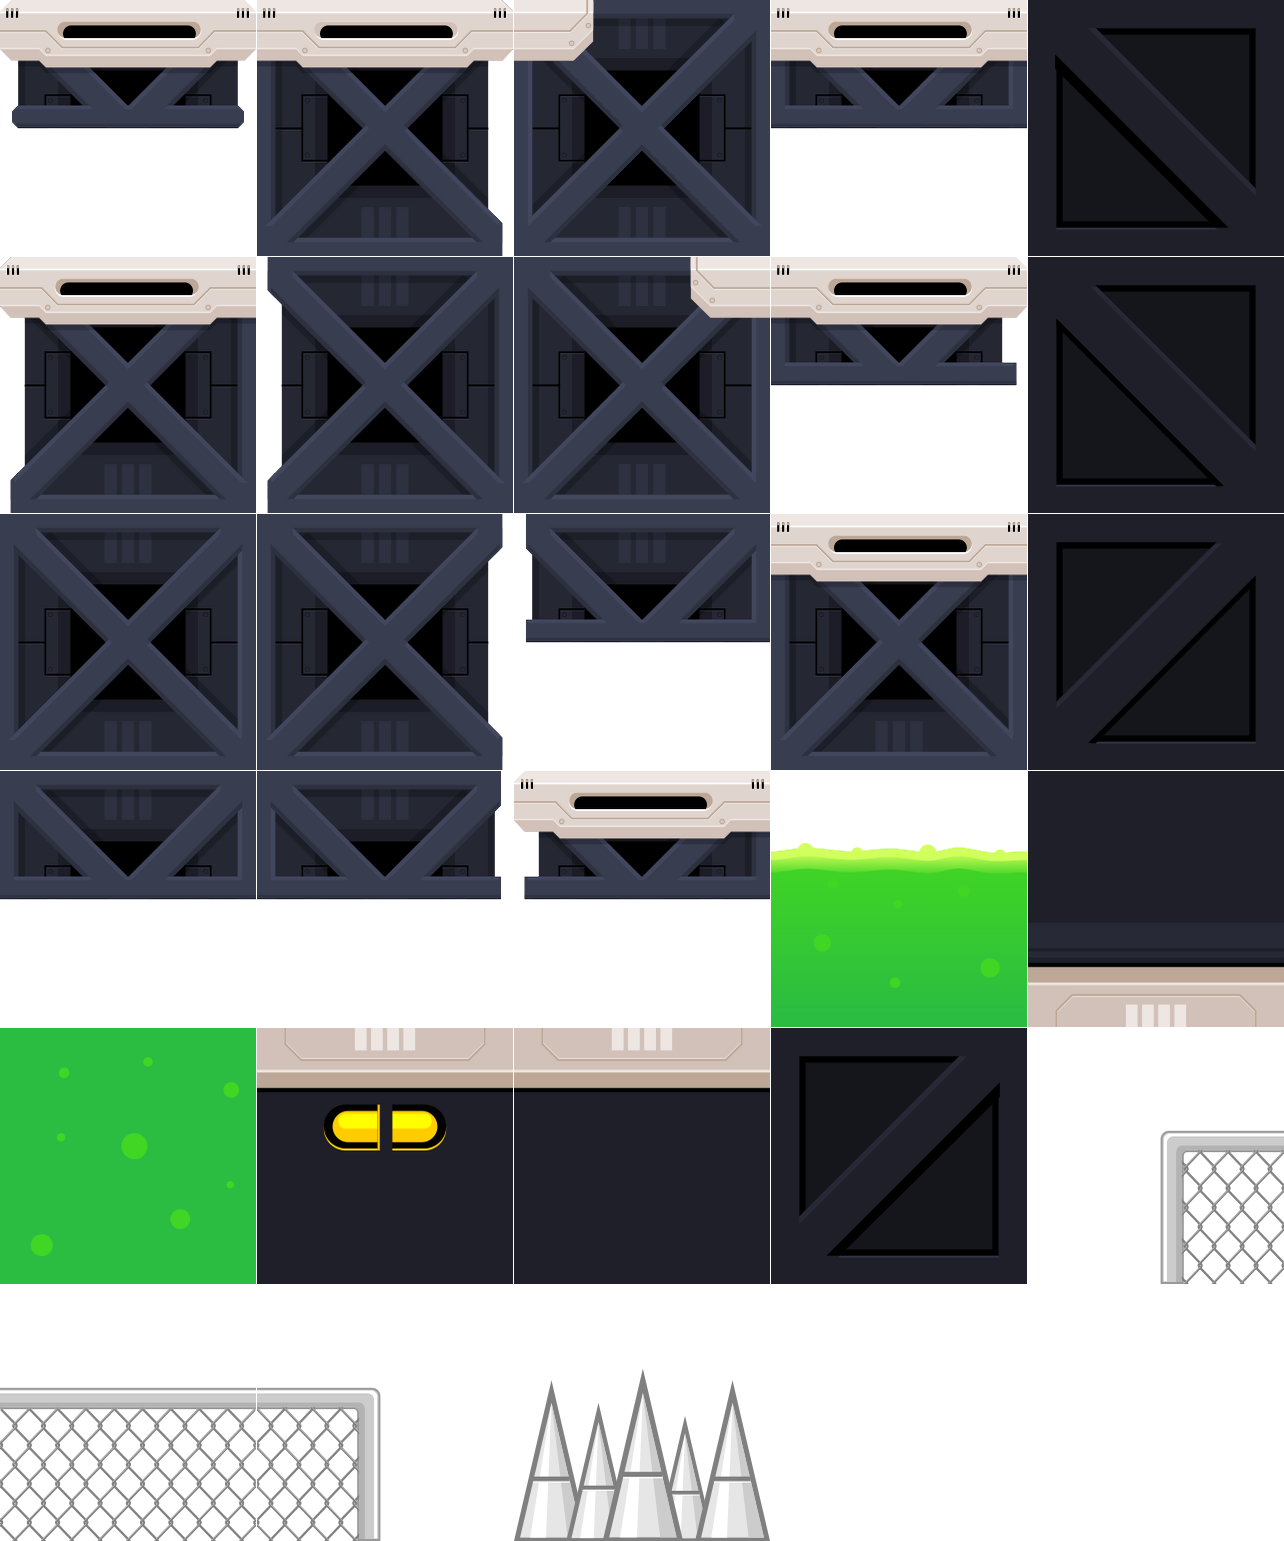
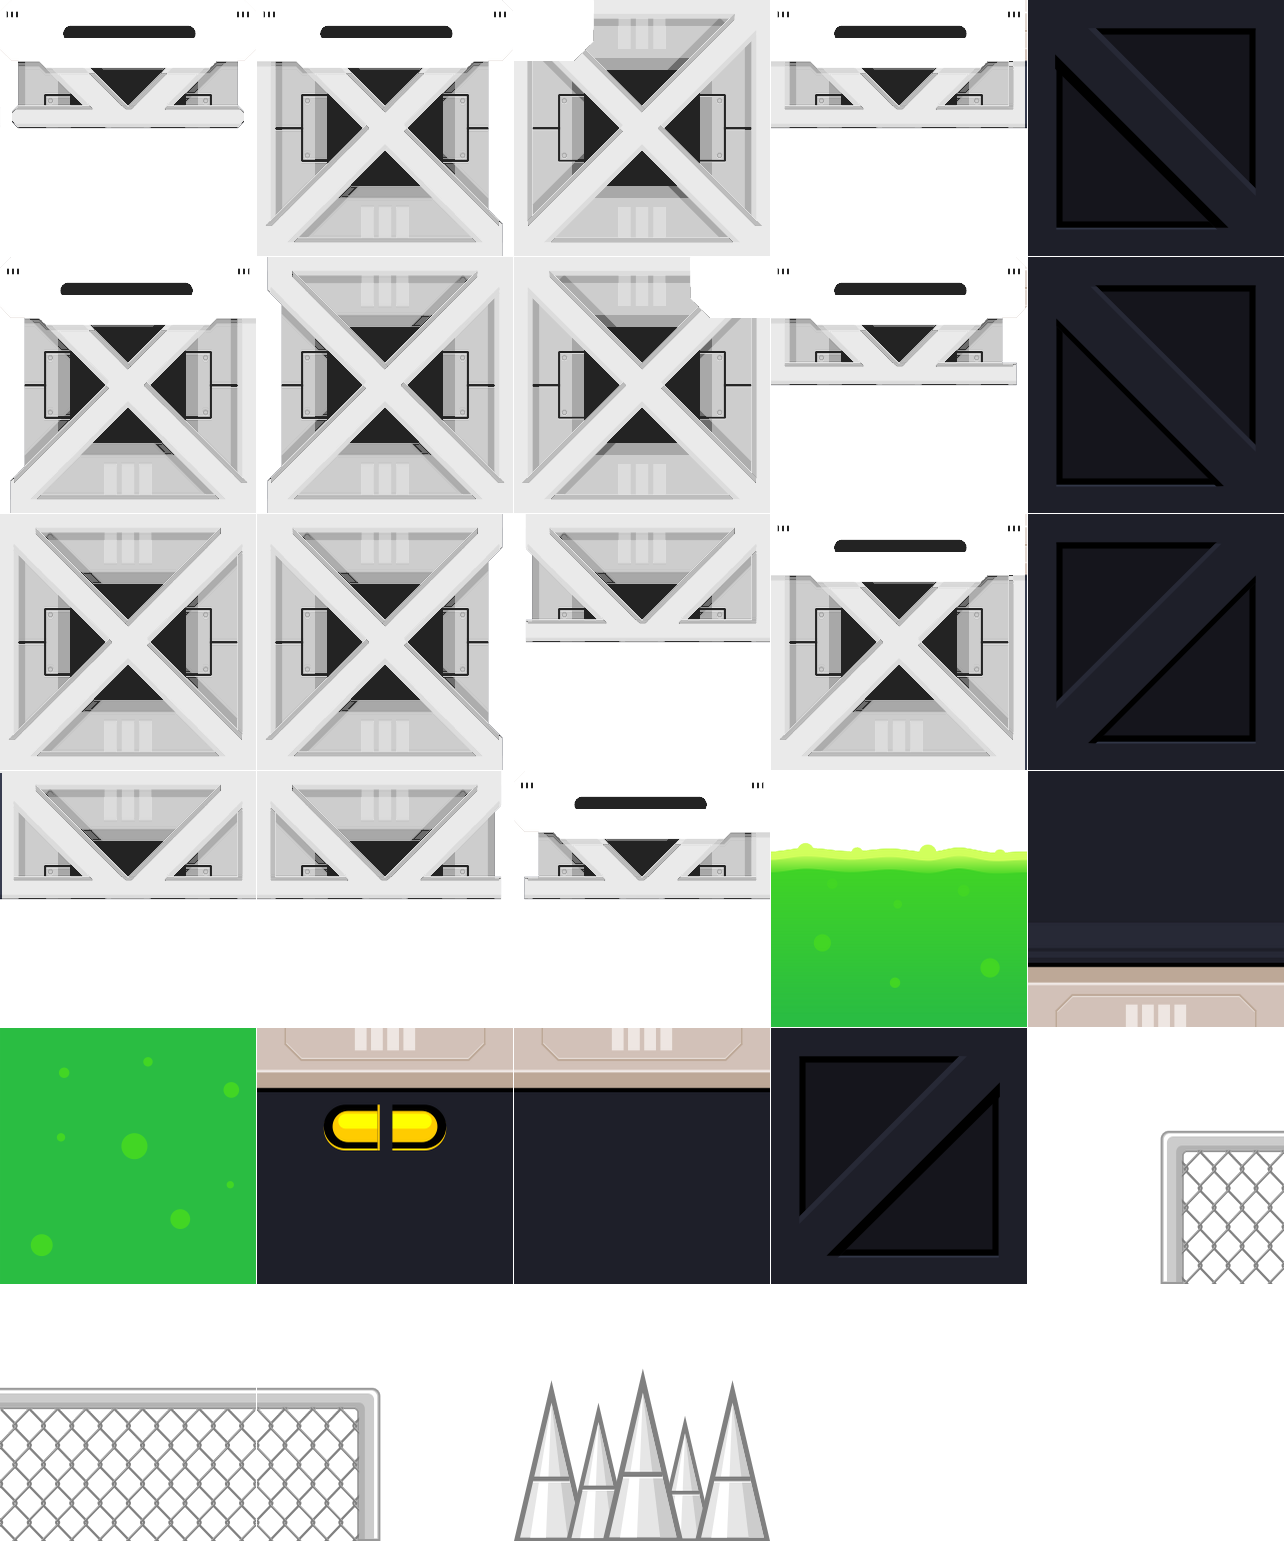
Acid added ;)

diff --git a/js/classes/Game.js b/js/classes/Game.js
@@ -15,6 +15,7 @@ function Game(options) {
 	this.ticker = PIXI.ticker.shared;
 	this.assets = this.loader.resources;
 	this.floors = new PIXI.Container;
+	this.acids = new PIXI.Container();
 	this.cursor = new PIXI.Sprite();
 	this.background = null;
 	this.player = null;
@@ -63,8 +64,8 @@ Game.prototype.init = function() {
 	this.enemyFactory = new Factory('ENEMY');
 
 	// Fill the screen with platforms
-	this.floors.y = game.screen.bottom - game.options.tileSize / 2;
 	this.stage.addChild(this.floors);
+	this.floors.y = this.screen.bottom - this.options.tileSize / 2;
 
 	for (var i = 0; i < (this.size.height / 2 + 1); i++) {
 		var n = this.floors.children.length;
@@ -74,9 +75,12 @@ Game.prototype.init = function() {
 	// Add the player
 	this.player = new Player(this.getInitialPlayerAnimations());
 
+	// Add the Acid ;)
+	this.addAcid();
+
 	// Show the controls on touch devices
 	if (mobileAndTabletcheck()) {
-		document.getElementById('mobile-controls').style.display = 'block';
+		// document.getElementById('mobile-controls').style.display = 'block';
 	};
 
 	// Add the cursor on top of everything
@@ -127,10 +131,34 @@ Game.prototype.addEvents = function() {
 	});	
 };
 
+Game.prototype.addAcid = function() {
+	var texture, acid;
+
+	for(var i = 0; i < this.size.height; i++) {
+		for(var j = -1; j < this.size.width + 2; j++) {
+			if(i === 0) {
+				texture = this.assets['tiles_atlas'].textures['Acid_001'];
+			} else {
+				texture = this.assets['tiles_atlas'].textures['Acid_002'];
+			};
+			acid = new PIXI.Sprite(texture);
+			acid.x = j * this.options.tileSize;
+			acid.y = i * this.options.tileSize;
+			acid.scale.set(this.options.ratio);
+
+			this.acids.addChild(acid);
+		};
+	};
+
+	this.acids.x = this.size.margin;
+	this.acids.y = this.screen.bottom - this.options.tileSize;
+	this.stage.addChild(this.acids);
+};
+
 Game.prototype.getInitialPlayerAnimations = function() {
 	// Extract the iddle frames from the atlas
 	var animations = [];
-	var iddleFrames = Object.keys(game.assets['char_atlas'].textures)
+	var iddleFrames = Object.keys(this.assets['char_atlas'].textures)
 		.filter(function(key) {
 			return key.includes('Walk_001') || key.includes('Walk_002') || key.includes('Walk_003')
 		});

diff --git a/js/classes/Floor.js b/js/classes/Floor.js
@@ -145,8 +145,9 @@ Floor.prototype.addBeam = function() {
 	); // TODO: MAYBE Create a Beam class (Either that or just a hole class)
 
 	this.hole.beam.x = (this.hole.position * game.options.tileSize) + (this.hole.beam.width / 1.325 * game.options.ratio);
+	// this.hole.beam.y = game.options.ratio;
 	this.hole.beam.scale.set(game.options.ratio);
-	this.hole.beam.anchor.set(.5, .25 * game.options.ratio);	
+	this.hole.beam.anchor.set(0.5, 0.25);	
 
 	// Add the beam to the floor
 	this.addChild(this.hole.beam);	
